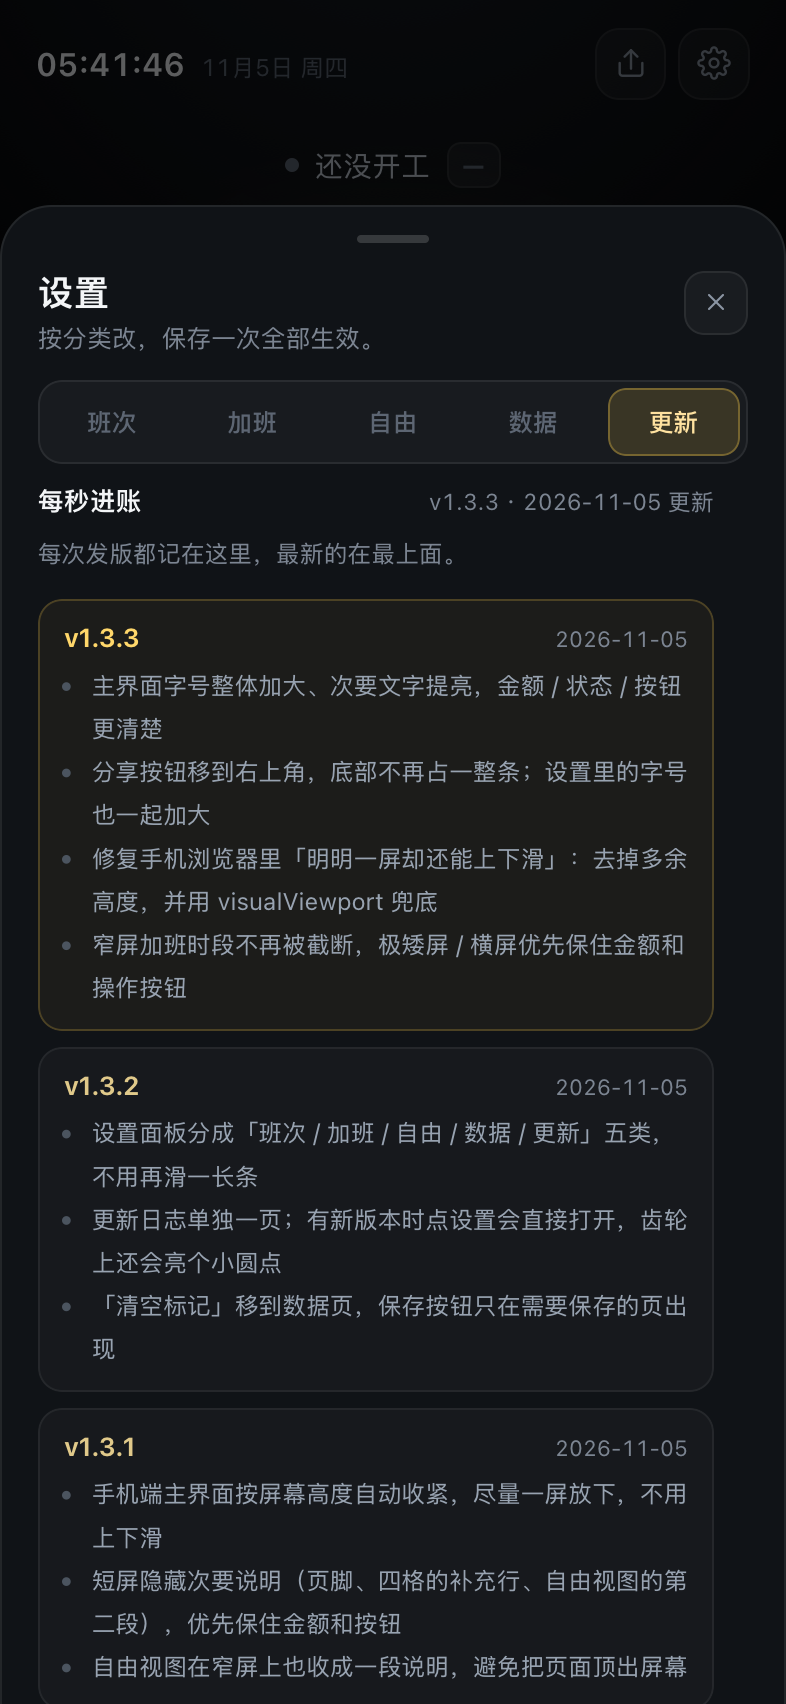
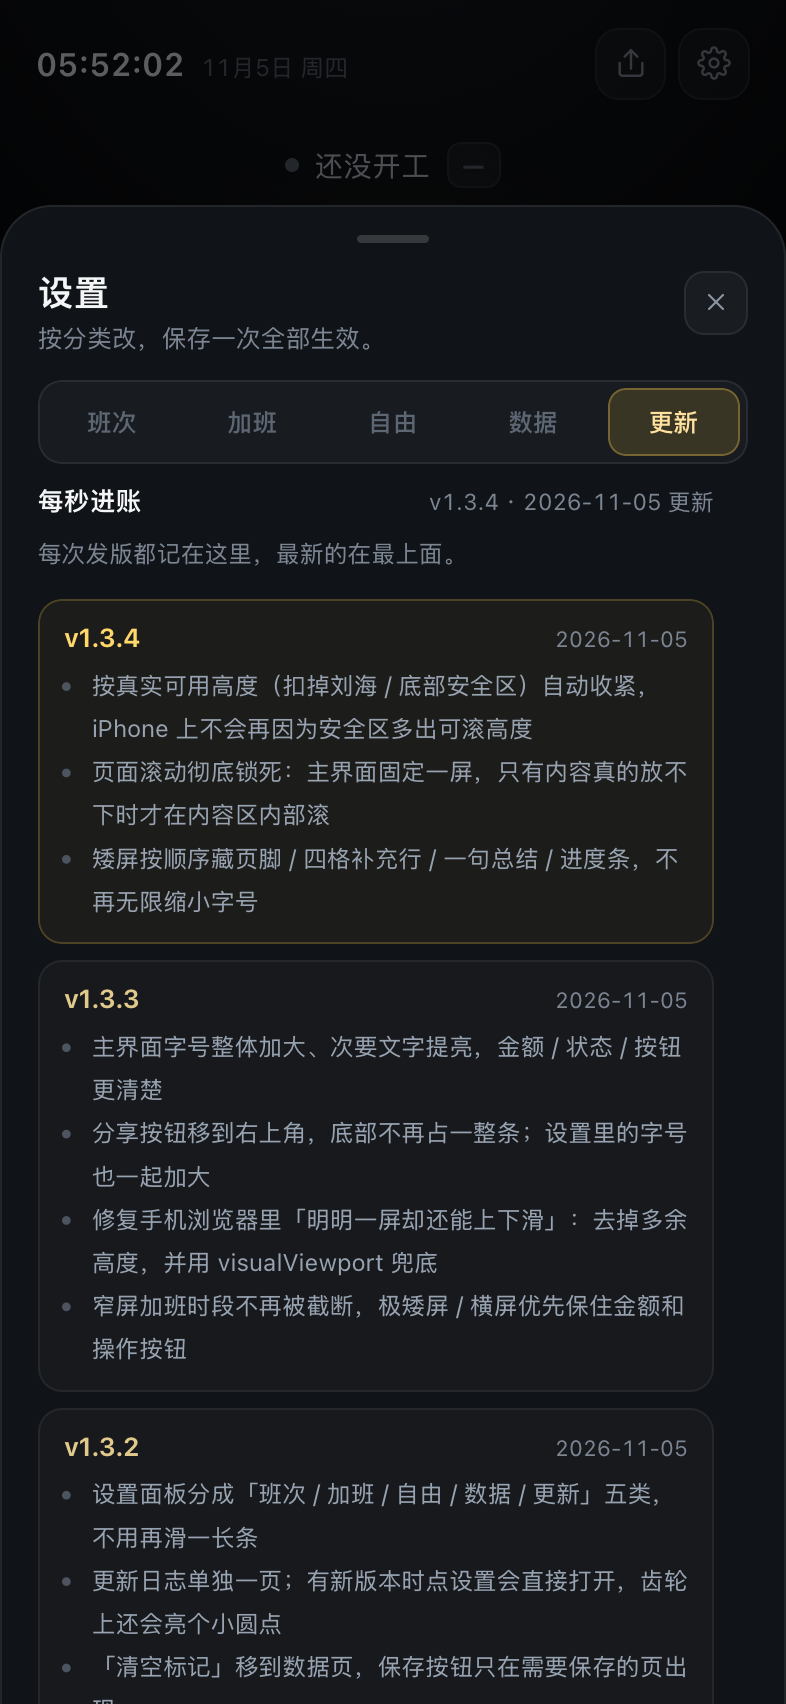
fix: lock page scroll and fit by safe-area adjusted height (v1.3.4)

diff --git a/index.html b/index.html
@@ -30,9 +30,11 @@
     --safe-b:env(safe-area-inset-bottom,0px);
   }
   *{box-sizing:border-box;-webkit-tap-highlight-color:transparent}
-  html{height:auto;overflow-x:hidden}
+  html{height:100%;overflow:hidden}
   body{
     margin:0;
+    height:100%;
+    overflow:hidden;
     min-height:100vh;
     min-height:100dvh;
     min-height:var(--vh100, 100dvh);
@@ -63,9 +65,10 @@
   .app{
     position:relative;
     z-index:1;
-    min-height:100vh;
-    min-height:100dvh;
-    min-height:var(--vh100, 100dvh);
+    height:100vh;
+    height:100dvh;
+    height:var(--vh100, 100dvh);
+    overflow:hidden;
     max-width:520px;
     margin:0 auto;
     padding:calc(var(--safe-t) + clamp(8px,1.65vh,14px)) 18px calc(var(--safe-b) + clamp(12px,2.6vh,22px));
@@ -76,6 +79,7 @@
   }
 
   /* ---------- header ---------- */
+  .app.allow-scroll{overflow-y:auto}
   header{display:flex;align-items:center;justify-content:space-between;gap:10px;min-height:clamp(28px,4vh,34px)}
   .head-actions{display:flex;align-items:center;gap:6px;flex:none}
   .clock{display:flex;align-items:baseline;gap:8px;font-variant-numeric:tabular-nums}
@@ -671,47 +675,29 @@
     .app{justify-content:center}
   }
 
-  /* 极短屏（小屏手机 + 浏览器工具栏全开）再收一点：优先保住大数字和按钮 */
-  @media (max-height:780px){
-    .foot{display:none}
-  }
-  @media (max-height:760px){
-    .tile .s{display:none}
-    .tile{min-height:44px}
-  }
-  @media (max-height:600px){
-    .fun{display:none}
-  }
-  /* 自由视图的说明卡在短屏 / 窄屏上收成一小段，避免把整页顶出屏幕 */
-  @media (max-height:620px), (max-width:380px) and (max-height:820px){
-    .explain{padding:10px 12px;font-size:10px;line-height:1.6}
-    .explain-h{font-size:11px;margin-bottom:4px}
+  /* 窄屏：自由视图说明卡收成一段（这是宽度问题，不是高度问题） */
+  @media (max-width:380px){
+    .explain{padding:10px 12px;font-size:11.5px;line-height:1.6}
+    .explain-h{font-size:12px;margin-bottom:4px}
     .explain p{margin-bottom:4px}
     .explain p + p{display:none}
   }
-  @media (max-width:360px){
-    .chip{font-size:11px;padding:4px 6px}
-    .ot-title{font-size:13px}
-    .ot-title .tag{font-size:10.5px;padding:2px 5px}
-  }
-  @media (max-height:580px){
-    .app{gap:5px;padding-bottom:calc(var(--safe-b) + 8px)}
-  }
-  /* 再矮就优先保住金额 / 按钮 / 四格，进度条先让位 */
-  @media (max-height:530px){
-    .bar-head,.bar{display:none}
-  }
-  @media (max-height:500px){
-    .shift-line{display:none}
-  }
-  @media (max-height:490px){
-    .app{padding-top:calc(var(--safe-t) + 6px)}
-    .status{margin-top:0}
-  }
-  /* 极端矮屏 / 横屏：四格先让位，保住金额和操作 */
-  @media (max-height:460px){
-    .grid{display:none}
-  }
+
+  /* 视口高度不够时由 JS 逐级加 class：先藏次要信息，再收紧间距，最后才允许滚动 */
+  .fit-1 .foot{display:none}
+  .fit-2 .tile .s{display:none}
+  .fit-2 .tile{min-height:44px}
+  .fit-3 .fun{display:none}
+  .fit-4 .bar-head,.fit-4 .bar{display:none}
+  .fit-5 .shift-line{display:none}
+  .app.fit-6{gap:5px;padding-bottom:calc(var(--safe-b) + 8px)}
+  .fit-7 .explain{padding:10px 12px;font-size:11.5px;line-height:1.6}
+  .fit-7 .explain-h{font-size:12px;margin-bottom:4px}
+  .fit-7 .explain p{margin-bottom:4px}
+  .fit-7 .explain p + p{display:none}
+  .fit-8 .grid{display:none}
+  .fit-9 .ot-hint{display:none}
+
   @media (prefers-reduced-motion:reduce){
     *{animation:none!important;transition:none!important}
   }
@@ -1163,8 +1149,13 @@
   }
 
   // 当前版本 + 更新日志（发版时改这里，设置面板直接渲染）
-  var APP_VERSION = "1.3.3";
+  var APP_VERSION = "1.3.4";
   var CHANGELOG = [
+    { version: "1.3.4", date: "2026-11-05", items: [
+      "按真实可用高度（扣掉刘海 / 底部安全区）自动收紧，iPhone 上不会再因为安全区多出可滚高度",
+      "页面滚动彻底锁死：主界面固定一屏，只有内容真的放不下时才在内容区内部滚",
+      "矮屏按顺序藏页脚 / 四格补充行 / 一句总结 / 进度条，不再无限缩小字号"
+    ] },
     { version: "1.3.3", date: "2026-11-05", items: [
       "主界面字号整体加大、次要文字提亮，金额 / 状态 / 按钮更清楚",
       "分享按钮移到右上角，底部不再占一整条；设置里的字号也一起加大",
@@ -2724,6 +2715,7 @@
     });
     save();
     render();
+    setTimeout(updateAppOverflow, 0);
   }
 
   // 按当前视图生成分享文案
@@ -3255,6 +3247,21 @@
   });
 
   /* ---------- 启动 ---------- */
+  var FIT_STEPS = ["fit-1", "fit-2", "fit-3", "fit-4", "fit-5", "fit-6", "fit-7", "fit-8", "fit-9"];
+
+  function updateAppOverflow(){
+    var app = document.querySelector(".app");
+    if (!app) return;
+    app.classList.remove("allow-scroll");
+    for (var i = 0; i < FIT_STEPS.length; i++) app.classList.remove(FIT_STEPS[i]);
+    if (app.scrollHeight <= app.clientHeight + 1) return;
+    for (var j = 0; j < FIT_STEPS.length; j++){
+      app.classList.add(FIT_STEPS[j]);
+      if (app.scrollHeight <= app.clientHeight + 1) return;
+    }
+    app.classList.add("allow-scroll");
+  }
+
   (function trackViewportHeight(){
     function update(){
       var ae = document.activeElement;
@@ -3262,6 +3269,7 @@
       var vv = window.visualViewport;
       var h = (vv && vv.height) || window.innerHeight || 0;
       if (h > 300) document.documentElement.style.setProperty("--vh100", h + "px");
+      requestAnimationFrame(updateAppOverflow);
     }
     update();
     window.addEventListener("resize", update);
@@ -3271,6 +3279,8 @@
 
   initSelects();
   load();
+  setTimeout(updateAppOverflow, 80);
+  setTimeout(updateAppOverflow, 800);
   if (state.firstRun) markUpdateSeen(true);
   updateUpdateDots();
   renderChangelog();
@@ -3280,8 +3290,13 @@
   render();
   if (state.firstRun) setTimeout(openSheet, 420);
 
+  var frameGuard = 0;
   (function loop(){
     render();
+    if (++frameGuard % 30 === 0){
+      var appNode = document.querySelector(".app");
+      if (appNode && appNode.scrollHeight > appNode.clientHeight + 1) updateAppOverflow();
+    }
     requestAnimationFrame(loop);
   })();
 
@@ -3335,7 +3350,8 @@
     setScheduleMode: setScheduleMode,
     setSheetPane: setSheetPane,
     hasUnseenUpdate: hasUnseenUpdate,
-    updateUpdateDots: updateUpdateDots
+    updateUpdateDots: updateUpdateDots,
+    updateAppOverflow: updateAppOverflow
   };
 })();
 </script>

diff --git a/README.zh.md b/README.zh.md
@@ -46,7 +46,7 @@
 
 对一下数字、点保存就能用。设置顶部有一块**实时折算**，改哪一项都会立刻重算（见下面的截图）。
 
-主界面会按屏幕高度自动收紧，手机上一屏就能看完（本班 / 本月 / 速率 / 自由四个视图都是），不用上下滑；设置面板内容多，仍然需要滚动。
+主界面会按**真实可用高度**（扣掉刘海、底部安全区）自动收紧，手机上一屏就能看完（本班 / 本月 / 速率 / 自由四个视图都是），不用上下滑；放不下时先藏次要信息（页脚、四格补充行、一句总结），不会把字越缩越小。设置面板内容多，仍然需要滚动。
 
 <p align="center">
   <img src="shots/fit.png" width="60%" alt="手机一屏主界面">
@@ -268,7 +268,7 @@
 
 ## 版本与更新
 
-- 当前版本 **v1.3.3**（2026-11-05）
+- 当前版本 **v1.3.4**（2026-11-05）
 - 设置分成「班次 / 加班 / 自由 / 数据 / 更新」五类；更新日志在「更新」页，有版本号、更新时间、每个版本改了什么
 - 有新版本时点设置会直接打开「更新」页，右上角齿轮也会亮一个小圆点；看过一次就不再提示
 - 屏幕够高时主界面底部也会显示版本号（矮屏收在设置 → 更新里）
